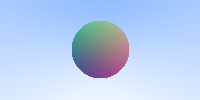
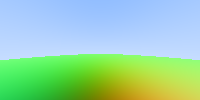
hittable trait, single sphere

diff --git a/src/main.rs b/src/main.rs
@@ -8,9 +8,9 @@ use png::HasParameters;
 
 use crate::vec3::Vec3;
 
-struct Ray {
-    a: Vec3,
-    b: Vec3,
+pub struct Ray {
+    pub a: Vec3,
+    pub b: Vec3,
 }
 
 impl Ray {
@@ -25,27 +25,72 @@ impl Ray {
     }
 }
 
-fn hit_sphere(center: Vec3, radius: f64, r: &Ray) -> f64 {
-    let oc = *r.origin() - center;
-    let a = r.direction().dot(*r.direction());
-    let b = 2.0 * oc.dot(*r.direction());
-    let c = oc.dot(oc) - radius * radius;
-    let discriminant = b * b - 4.0 * a * c;
-    if discriminant < 0.0 {
-        return -1.0;
-    }
-    (-b - discriminant.sqrt()) / (2.0 * a)
+#[derive(Debug, Copy, Clone)]
+pub struct HitRecord {
+    pub t: f64,
+    pub p: Vec3,
+    pub normal: Vec3,
 }
 
-fn color(r: &Ray) -> Vec3 {
-    let t = hit_sphere(Vec3(0.0, 0.0, -1.0), 0.5, r);
-    if t > 0.0 {
-        let n = r.point_at_parameter(t).unit() - Vec3(0.0, 0.0, -1.0);
-        return 0.5 * Vec3(n.x() + 1.0, n.y() + 1.0, n.z() + 1.0);
+pub trait Hittable {
+    fn hit(&self, r: &Ray, t_min: f64, t_max: f64) -> Option<HitRecord>;
+}
+
+pub struct Sphere {
+    center: Vec3,
+    radius: f64,
+}
+
+impl Hittable for Sphere {
+    fn hit(&self, r: &Ray, t_min: f64, t_max: f64) -> Option<HitRecord> {
+        let oc = *r.origin() - self.center;
+        let a = r.direction().dot(*r.direction());
+        let b = 2.0 * oc.dot(*r.direction());
+        let c = oc.dot(oc) - self.radius * self.radius;
+        let discriminant = b * b - 4.0 * a * c;
+        if discriminant <= 0.0 {
+            return None;
+        }
+        let sol_pos = (-b + discriminant.sqrt()) / (2.0 * a);
+        let sol_neg = (-b - discriminant.sqrt()) / (2.0 * a);
+        let t : Option<f64> = {
+            if sol_pos > t_min && sol_pos < t_max {
+                Some(sol_pos)
+            } else if sol_neg > t_min && sol_neg < t_max {
+                Some(sol_neg)
+            } else {
+                None
+            }
+        };
+        match t {
+            Some(t_val) => {
+                let p = r.point_at_parameter(t_val);
+                Some(HitRecord{
+                    t: t_val, 
+                    p,
+                    normal: (p - self.center) / self.radius,
+                })
+            }
+            None => None
+        }
     }
-    let unit_direction = r.direction().unit();
-    let t = 0.5 * (unit_direction.y() + 1.0);
-    (1.0 - t) * Vec3(1.0, 1.0, 1.0) + t * Vec3(0.5, 0.7, 1.0)
+}
+
+fn color(r: &Ray, world: &Hittable) -> Vec3 {
+    match world.hit(&r, 0., 99999999999.) {
+        Some(hit_record) => {
+            0.5 * Vec3(
+                hit_record.normal.x() + 1.,
+                hit_record.normal.y() + 1.,
+                hit_record.normal.z() + 1.,
+            )
+        }
+        None => {
+            let unit_direction = r.direction().unit();
+            let t = 0.5 * (unit_direction.y() + 1.0);
+            (1.0 - t) * Vec3(1.0, 1.0, 1.0) + t * Vec3(0.5, 0.7, 1.0)
+        }
+    }
 }
 
 fn main() {
@@ -55,6 +100,10 @@ fn main() {
     let horizontal = Vec3(4.0, 0.0, 0.0);
     let vertical = Vec3(0.0, 2.0, 0.0);
     let origin = Vec3(0.0, 0.0, 0.0);
+    let sphere = Sphere {
+        center: Vec3(0., -100.5, -1.),
+        radius: 100.,
+    };
 
     let mut img_data = Vec::new();
     for j in (0..ny).rev() {
@@ -65,7 +114,7 @@ fn main() {
                 a: origin,
                 b: lower_left_corner + u * horizontal + v * vertical,
             };
-            let col = color(&r);
+            let col = color(&r, &sphere);
             let ir = (255.99 * col.r()) as u8;
             let ig = (255.99 * col.g()) as u8;
             let ib = (255.99 * col.b()) as u8;
